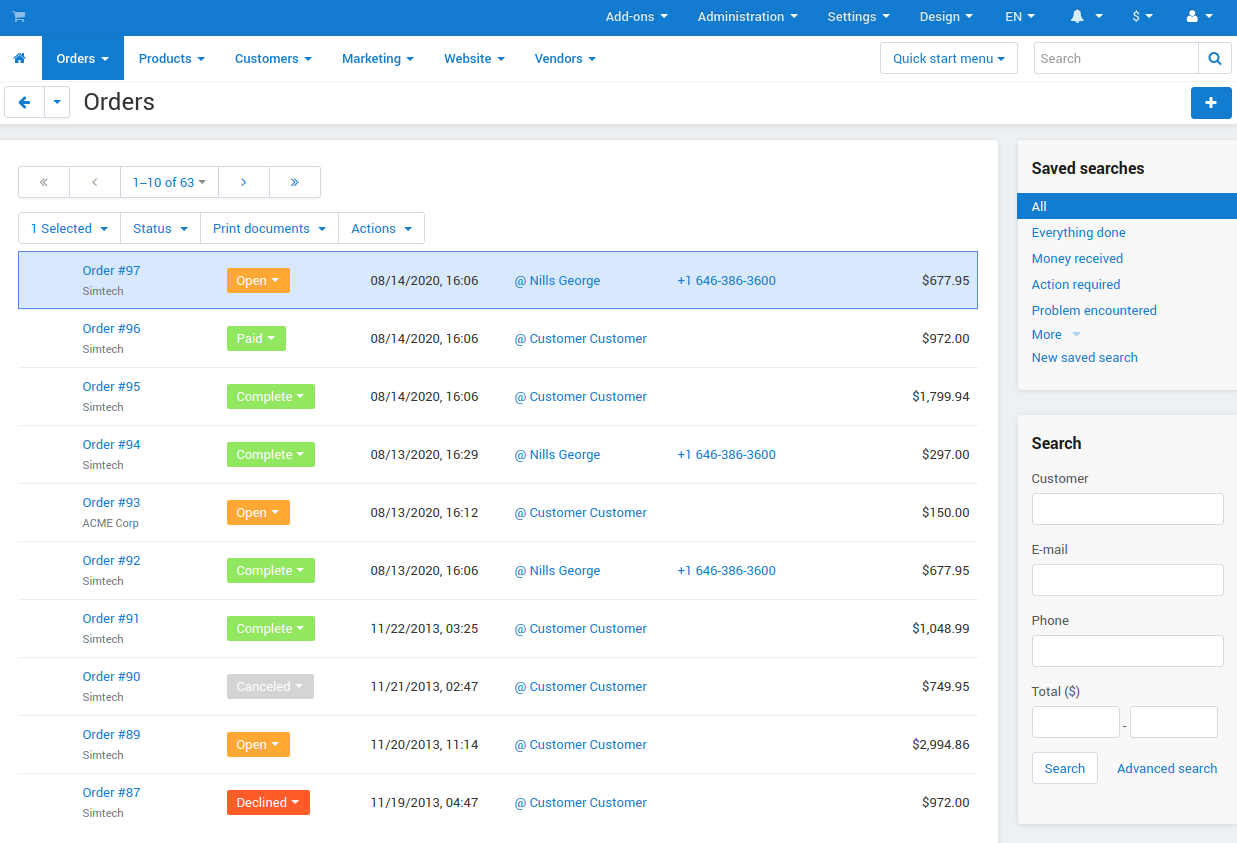
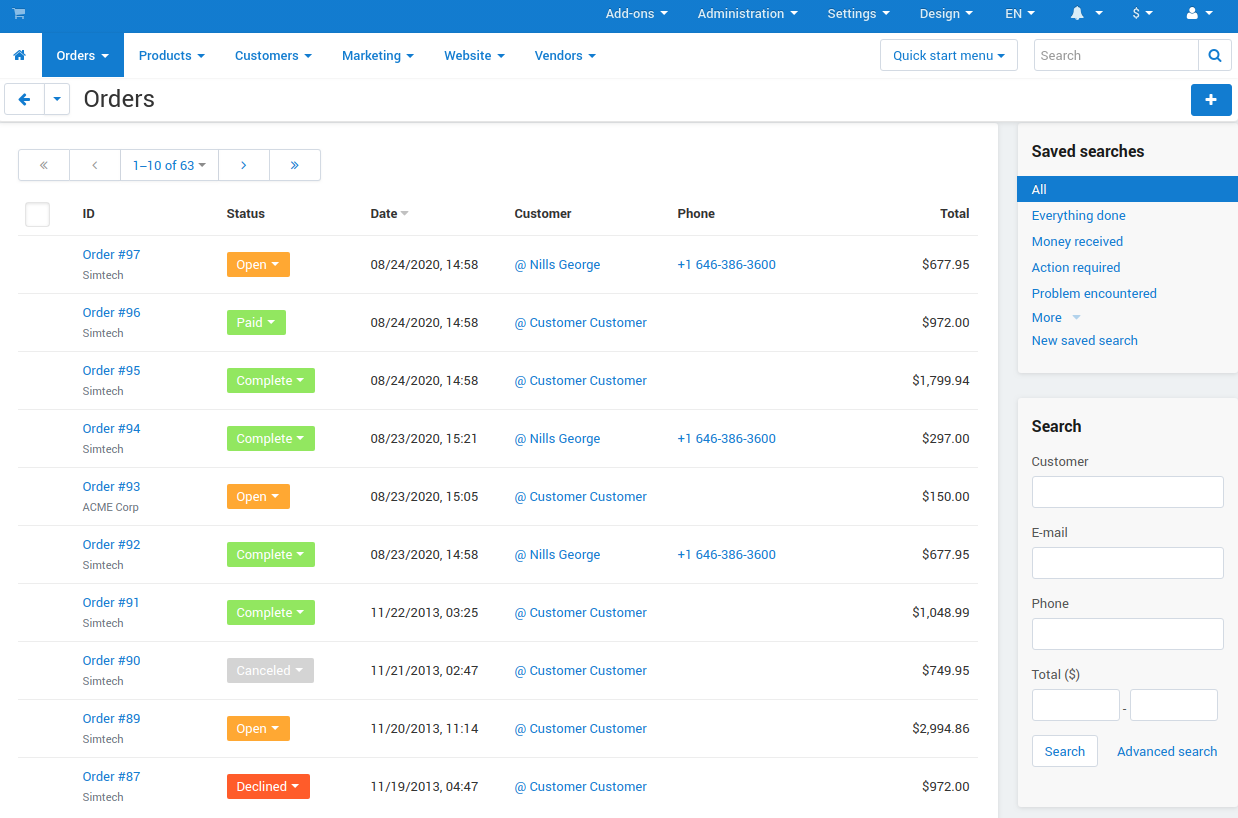
Orders edited

diff --git a/ru/user_guide/orders/actions_on_orders/quick_actions.rst b/ru/user_guide/orders/actions_on_orders/quick_actions.rst
@@ -4,11 +4,9 @@
 
 На странице **Заказы → Все заказы** можно выполнить много массовых действий над заказами, например, массово распечатать счета или экспортировать заказы.
 
-#. Отметьте галочками те заказы, над которыми вы хотите совершить массовое действие.
+#. Отметьте те заказы, над которыми вы хотите совершить массовое действие.
 
-#. Нажмите кнопку с изображением шестерёнки в правой верхней части страницы. Откроется список доступных действий.
-
-#. Выберите нужное действие из списка.
+#. Выберите нужное действие в верхней части списка заказов.
 
    .. fancybox:: img/orders_05.png
        :alt: Действия над заказами.

diff --git a/en/user_guide/orders/actions_on_orders/quick_actions.rst b/en/user_guide/orders/actions_on_orders/quick_actions.rst
@@ -4,11 +4,9 @@ Quick Actions
 
 The **Orders → View orders** page allows you to carry out many routine tasks for multiple orders, including bulk order exporting and invoice printing in one click.
 
-#. Tick the checkboxes of the orders you want to take action on.
+#. Choose the orders you want to take action on.
 
-#. Click the gear button in the upper right part of the page. This will show the list of available actions.
-
-#. Click on the required action in the list.
+#. Click on the required action on the top of the orders list.
 
    .. important ::
 

diff --git a/ru/user_guide/orders/actions_on_orders/view_orders.rst b/ru/user_guide/orders/actions_on_orders/view_orders.rst
@@ -32,7 +32,7 @@
 
 * Просматривать список всех заказов или только тех заказов, которые соответствуют поисковому запросу.
 
-* Просматривать незавершённые заказы (см. кнопку с изображением шестерёнки в правой верхней части страницы).
+* Просматривать незавершённые заказы.
 	
   .. note::
   

diff --git a/en/user_guide/orders/actions_on_orders/view_orders.rst b/en/user_guide/orders/actions_on_orders/view_orders.rst
@@ -34,7 +34,7 @@ The **View orders** page allows you to:
 
 * View all orders in the store, or just the orders that meet your search requirements.
 
-* View incomplete orders by clicking the gear button and choosing **Incomplete orders**.
+* View incomplete orders.
 	
   .. note::
   
